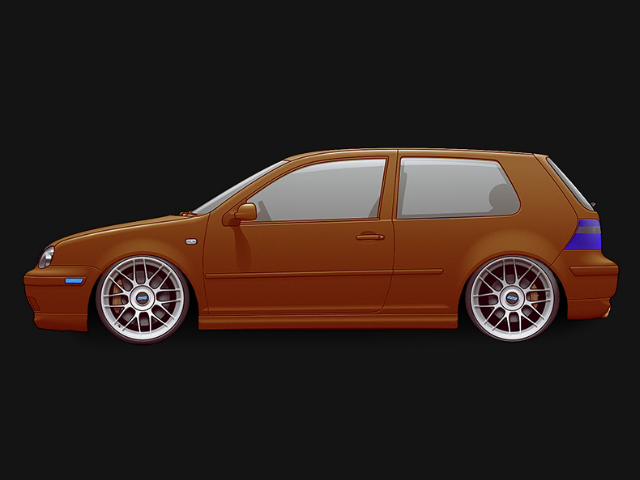
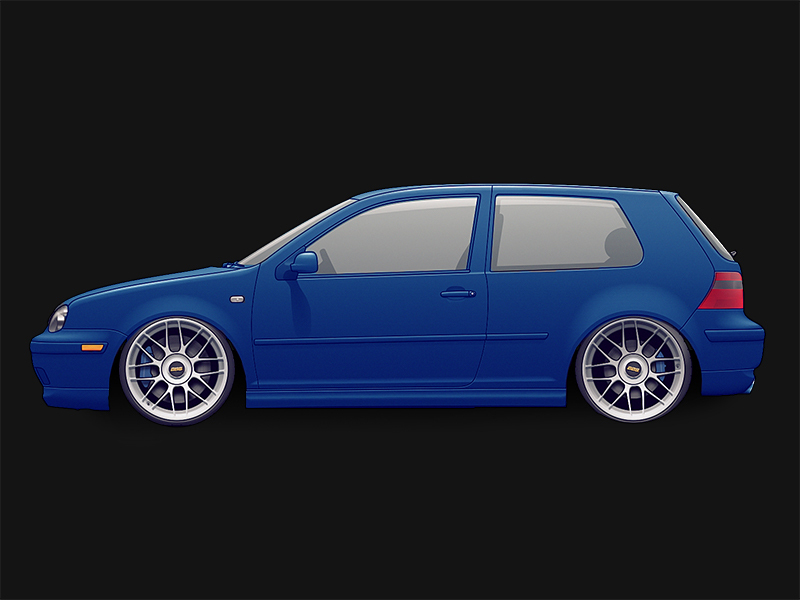
Car image

Changed region(s): [[0.0312, 0.2812, 0.9688, 0.7188]]

diff --git a/hud.py b/hud.py
@@ -72,8 +72,6 @@ defaultcover = pil2cairo(defaultimage, 128, 128)
 
 def draw_music():
 
-	
-
 	# Init cairo
 	surface = cairo.ImageSurface(cairo.FORMAT_ARGB32, screen_width, screen_height)
 	ctx = cairo.Context(surface)
@@ -206,7 +204,8 @@ def draw_graph(ctx):
 	surface_fuelusing.blit(surf, (0,0))
 
 # Import image
-carimage = cairo.ImageSurface.create_from_png("golf.png")
+carimg = Image.open("golf2.png")
+carimage = pil2cairo(carimg, screen_width, screen_height)
 
 def draw_sideview():
 
